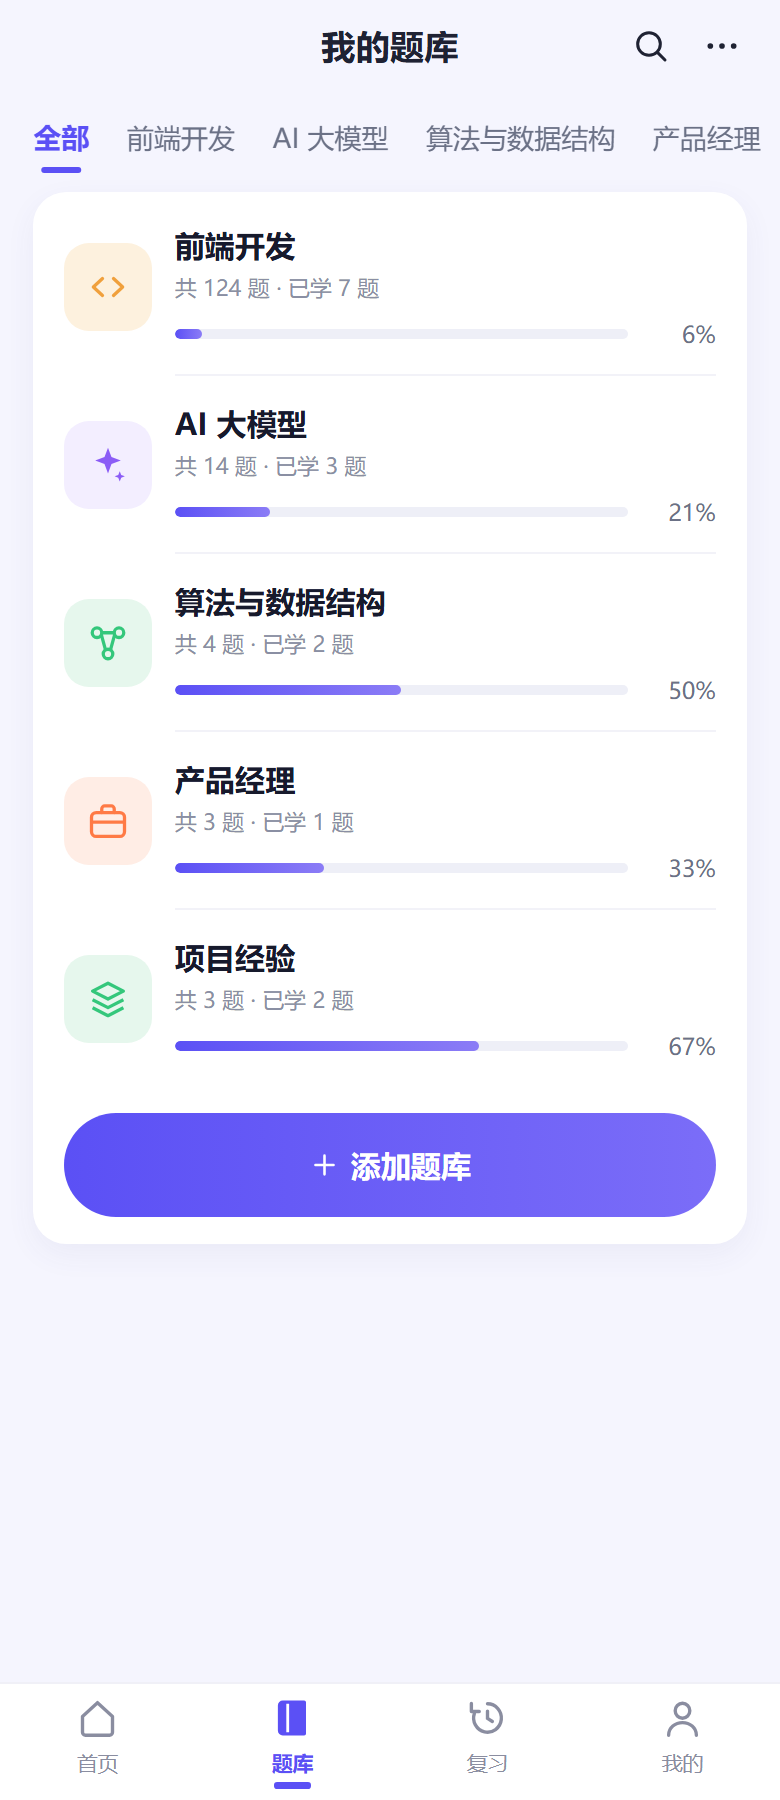
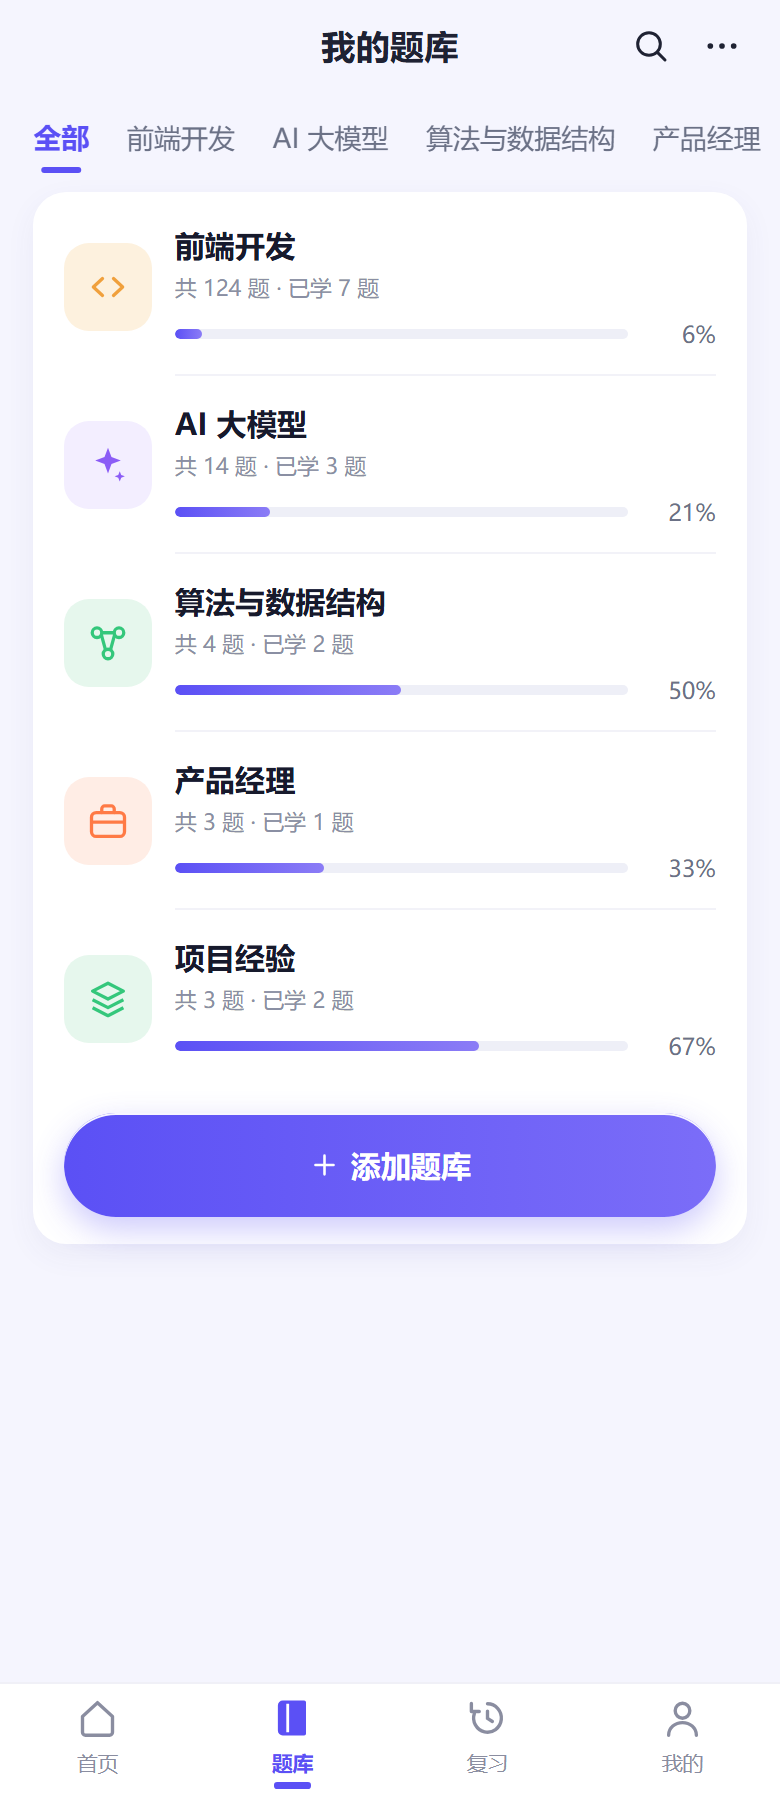
style(ui): 全站按钮换柔光玻璃质感
配方三要素（global.scss 集中定义 --glass-* / --glow-primary 令牌）：
- 半透明白渐变 + backdrop-filter blur/saturate —— 玻璃感来源；
  不支持 backdrop-filter 的老客户端退化为半透白叠浅底，视觉仍成立；
- inset 顶部 2rpx 白高光 —— 玻璃反光；
- 柔投影（次级用紫灰 10%，主 CTA 用品牌紫 30% 光晕）。

改动：
- global.scss 三个按钮类按配方重写；.tap:active 加 scale(0.98) 按压手感；
  blur 半径用 px（blur 内的 rpx 在 H5 端有转换不到的先例）；
- 页面局部按钮对齐同一配方：详情 foot-btn、编辑 sheet-btn 两组、
  复习计划 row-btn/ai-btn、学习 rate 打分卡、capture/ocr-review/settings
  三处 mini-btn、备份 act 卡、EmptyState、AnswerEditor AI 徽章；
- 主 CTA（渐变）不叠 backdrop-filter —— 渐变不透明，模糊不可见，只加
  反光内高光 + 柔光投影。

验证：type-check 0 错误；H5 + 小程序双端构建通过；13 屏截图重拍
（ui-8-screens 523576 -> 535569B），目检 library/study/detail/backup
四页：玻璃半透、顶部高光、柔投影均可见，文字清晰无错位。

Changed region(s): [[0.0923, 0.6533, 0.9231, 0.6844]]

diff --git a/src/styles/global.scss b/src/styles/global.scss
@@ -33,6 +33,18 @@ page {
   --radius-card: 32rpx;
   --radius-lg: 40rpx;
 
+  /* 柔光玻璃按钮配方（2026-11）：半透明白 + 顶部内高光 + 柔投影 + 背景模糊。
+     backdrop-filter 在新客户端（iOS WKWebView / Android Chromium 76+）都支持，
+     不支持时退化为「半透明白叠在浅底色上」，视觉仍成立 —— 所以不写 JS 探测。
+     页面局部按钮照抄这套变量，别自己拼 rgba，方便将来全局调。 */
+  --glass-bg: linear-gradient(180deg, rgba(255, 255, 255, 0.82), rgba(255, 255, 255, 0.5));
+  --glass-bg-tint: linear-gradient(180deg, rgba(255, 255, 255, 0.75), rgba(232, 233, 252, 0.55));
+  --glass-border: 1rpx solid rgba(255, 255, 255, 0.85);
+  --glass-sheen: inset 0 2rpx 0 rgba(255, 255, 255, 0.95);
+  --glass-shadow: 0 10rpx 26rpx rgba(70, 66, 140, 0.1);
+  --glass-blur: blur(9px) saturate(150%);
+  --glow-primary: 0 12rpx 32rpx rgba(91, 80, 245, 0.3);
+
   background-color: var(--bg-page);
   color: var(--text);
   font-family: -apple-system, BlinkMacSystemFont, 'PingFang SC', 'Helvetica Neue',
@@ -133,11 +145,14 @@ textarea {
   color: var(--text-sub);
 }
 
-/* ============ 按钮 ============ */
+/* ============ 按钮（柔光玻璃感） ============ */
+/* 主 CTA：渐变主体不变（可点击性靠它），加「顶部内高光 = 玻璃反光」和
+   紫色柔光投影。不叠 backdrop-filter —— 渐变本身不透明，模糊了也看不见。 */
 .btn-primary {
   height: 100rpx;
   border-radius: 50rpx;
   background-image: linear-gradient(90deg, var(--grad-from), var(--grad-to));
+  box-shadow: var(--glass-sheen), var(--glow-primary);
   color: #ffffff;
   font-size: 31rpx;
   font-weight: 700;
@@ -146,10 +161,16 @@ textarea {
   justify-content: center;
 }
 
+/* 次级动作：磨砂玻璃药丸。半透明白叠在页面浅紫底上，
+   blur 把底下颜色揉出一点点进按钮里 —— 这就是「玻璃感」的来源。 */
 .btn-soft {
   height: 96rpx;
   border-radius: 48rpx;
-  background-color: var(--primary-soft);
+  background-image: var(--glass-bg-tint);
+  border: var(--glass-border);
+  box-shadow: var(--glass-sheen), var(--glass-shadow);
+  backdrop-filter: var(--glass-blur);
+  -webkit-backdrop-filter: var(--glass-blur);
   color: var(--primary);
   font-size: 27rpx;
   font-weight: 700;
@@ -158,10 +179,15 @@ textarea {
   justify-content: center;
 }
 
+/* 弱动作：清玻璃描边款。 */
 .btn-ghost {
   height: 92rpx;
   border-radius: 46rpx;
-  border: 1px solid #e0e0ee;
+  background-image: var(--glass-bg);
+  border: var(--glass-border);
+  box-shadow: var(--glass-sheen), var(--glass-shadow);
+  backdrop-filter: var(--glass-blur);
+  -webkit-backdrop-filter: var(--glass-blur);
   color: var(--text-body);
   font-size: 27rpx;
   display: flex;
@@ -170,9 +196,11 @@ textarea {
 }
 
 .tap {
-  transition: opacity 0.15s ease;
+  transition: opacity 0.15s ease, transform 0.15s ease;
 }
 
+/* 按压缩到 0.98：玻璃被「按下去」的手感，配合 opacity 双保险。 */
 .tap:active {
-  opacity: 0.65;
+  opacity: 0.72;
+  transform: scale(0.98);
 }

diff --git a/src/pages/review/plan.vue b/src/pages/review/plan.vue
@@ -255,11 +255,16 @@ async function recalc(): Promise<void> {
   white-space: nowrap;
 }
 
+/* 行内小药丸：柔光玻璃（淡紫磨砂），配方见 global.scss。 */
 .row-btn {
   height: 60rpx;
   padding: 0 24rpx;
   border-radius: 30rpx;
-  background-color: #eaebfd;
+  background-image: var(--glass-bg-tint);
+  border: var(--glass-border);
+  box-shadow: var(--glass-sheen), var(--glass-shadow);
+  backdrop-filter: var(--glass-blur);
+  -webkit-backdrop-filter: var(--glass-blur);
   display: flex;
   align-items: center;
 }
@@ -358,12 +363,14 @@ async function recalc(): Promise<void> {
   background-color: #38bdf8;
 }
 
+/* AI 卡片主按钮：渐变主体 + 顶部内高光 + 柔光投影，配方同 .btn-primary。 */
 .ai-btn {
   margin-top: 28rpx;
   width: 232rpx;
   height: 84rpx;
   border-radius: 42rpx;
   background-image: linear-gradient(90deg, #5b50f5, #7b6df8);
+  box-shadow: var(--glass-sheen), var(--glow-primary);
   display: flex;
   align-items: center;
   justify-content: center;

diff --git a/src/pages/question/edit.vue b/src/pages/question/edit.vue
@@ -617,14 +617,21 @@ function remove(): void {
   justify-content: center;
 }
 
+/* 底部弹层的按钮组：ghost 换清玻璃、primary 加反光内高光 + 柔光投影，
+   配方同 global.scss（--glass-* / --glow-primary 变量在 page 上定义）。 */
 .sheet-btn--ghost {
-  background-color: #f2f2f8;
+  background-image: var(--glass-bg);
+  border: var(--glass-border);
+  box-shadow: var(--glass-sheen), var(--glass-shadow);
+  backdrop-filter: var(--glass-blur);
+  -webkit-backdrop-filter: var(--glass-blur);
   margin-right: 20rpx;
   flex: 0 0 200rpx;
 }
 
 .sheet-btn--primary {
   background-image: linear-gradient(90deg, #5b50f5, #7b6df8);
+  box-shadow: var(--glass-sheen), var(--glow-primary);
 }
 
 .sheet-btn-ghost-text {

diff --git a/src/pages/study/session.vue b/src/pages/study/session.vue
@@ -294,13 +294,18 @@ function back(): void {
   flex-direction: row;
 }
 
+/* 掌握度打分卡：白卡换成磨砂玻璃片（半透白 + 内高光 + 柔投影），
+   在白底 .qcard 里靠描边和阴影撑出层次。配方见 global.scss。 */
 .rate {
   flex: 1;
   height: 110rpx;
   margin-right: 16rpx;
   border-radius: 24rpx;
-  border: 2rpx solid #e3e5ee;
-  background-color: #ffffff;
+  border: 1rpx solid rgba(255, 255, 255, 0.85);
+  background-image: var(--glass-bg);
+  box-shadow: var(--glass-sheen), var(--glass-shadow);
+  backdrop-filter: var(--glass-blur);
+  -webkit-backdrop-filter: var(--glass-blur);
   display: flex;
   flex-direction: column;
   align-items: center;

diff --git a/src/pages/capture/index.vue b/src/pages/capture/index.vue
@@ -609,6 +609,7 @@ function start(): void {
   align-items: center;
 }
 
+/* 迷你玻璃药丸：贴在浅紫底上，半透白 + 模糊出玻璃感。配方见 global.scss。 */
 .mini-btn {
   display: flex;
   flex-direction: row;
@@ -616,7 +617,11 @@ function start(): void {
   height: 52rpx;
   padding: 0 20rpx;
   border-radius: 26rpx;
-  background-color: #ffffff;
+  background-image: var(--glass-bg);
+  border: var(--glass-border);
+  box-shadow: var(--glass-sheen), var(--glass-shadow);
+  backdrop-filter: var(--glass-blur);
+  -webkit-backdrop-filter: var(--glass-blur);
   margin-left: 14rpx;
 }
 

diff --git a/src/pages/profile/backup.vue b/src/pages/profile/backup.vue
@@ -265,12 +265,17 @@ async function doRestore(): Promise<void> {
   flex-direction: row;
 }
 
+/* 备份大操作卡：淡紫磨砂玻璃（半透 + 内高光 + 柔投影），配方见 global.scss。 */
 .act {
   flex: 1;
   height: 140rpx;
   margin-right: 20rpx;
   border-radius: 27rpx;
-  background-color: #eaebfd;
+  background-image: var(--glass-bg-tint);
+  border: var(--glass-border);
+  box-shadow: var(--glass-sheen), var(--glass-shadow);
+  backdrop-filter: var(--glass-blur);
+  -webkit-backdrop-filter: var(--glass-blur);
   display: flex;
   flex-direction: column;
   align-items: center;

diff --git a/src/components/EmptyState.vue b/src/components/EmptyState.vue
@@ -63,13 +63,18 @@ const emit = defineEmits<{ action: [] }>()
   padding-right: 60rpx;
 }
 
+/* 空态动作按钮：淡紫磨砂玻璃药丸，配方见 global.scss。 */
 .empty-action {
   margin-top: 32rpx;
   height: 72rpx;
   padding-left: 40rpx;
   padding-right: 40rpx;
   border-radius: 36rpx;
-  background-color: #eaebfd;
+  background-image: var(--glass-bg-tint);
+  border: var(--glass-border);
+  box-shadow: var(--glass-sheen), var(--glass-shadow);
+  backdrop-filter: var(--glass-blur);
+  -webkit-backdrop-filter: var(--glass-blur);
   display: flex;
   align-items: center;
 }

diff --git a/src/pages/capture/ocr-review.vue b/src/pages/capture/ocr-review.vue
@@ -372,6 +372,7 @@ function goBatch(): void {
   color: #a9aec2;
 }
 
+/* 迷你玻璃药丸（淡紫磨砂），配方见 global.scss。 */
 .mini-btn {
   display: flex;
   flex-direction: row;
@@ -379,7 +380,11 @@ function goBatch(): void {
   height: 64rpx;
   padding: 0 24rpx;
   border-radius: 32rpx;
-  background-color: #eaebfd;
+  background-image: var(--glass-bg-tint);
+  border: var(--glass-border);
+  box-shadow: var(--glass-sheen), var(--glass-shadow);
+  backdrop-filter: var(--glass-blur);
+  -webkit-backdrop-filter: var(--glass-blur);
 }
 
 .mini-btn-text {

diff --git a/src/components/AnswerEditor.vue b/src/components/AnswerEditor.vue
@@ -97,12 +97,17 @@ function onInput(e: Event): void {
   align-items: center;
 }
 
+/* AI 徽章小药丸：淡紫磨砂玻璃，配方见 global.scss。 */
 .ansed-ai {
   height: 46rpx;
   padding-left: 16rpx;
   padding-right: 18rpx;
   border-radius: 23rpx;
-  background-color: #eaebfd;
+  background-image: var(--glass-bg-tint);
+  border: var(--glass-border);
+  box-shadow: var(--glass-sheen), var(--glass-shadow);
+  backdrop-filter: var(--glass-blur);
+  -webkit-backdrop-filter: var(--glass-blur);
   display: flex;
   flex-direction: row;
   align-items: center;

diff --git a/src/pages/question/detail.vue b/src/pages/question/detail.vue
@@ -464,10 +464,15 @@ function confirmDelete(): void {
   margin: 44rpx 32rpx 40rpx;
 }
 
+/* 柔光玻璃药丸：配方同 global.scss 的 .btn-soft（变量也是全局定义的）。 */
 .foot-btn {
   height: 96rpx;
   border-radius: 48rpx;
-  background-color: #eaebfd;
+  background-image: var(--glass-bg-tint);
+  border: var(--glass-border);
+  box-shadow: var(--glass-sheen), var(--glass-shadow);
+  backdrop-filter: var(--glass-blur);
+  -webkit-backdrop-filter: var(--glass-blur);
   display: flex;
   flex-direction: row;
   align-items: center;

diff --git a/src/pages/profile/settings.vue b/src/pages/profile/settings.vue
@@ -272,11 +272,16 @@ function reseed(): void {
 </script>
 
 <style scoped>
+/* 迷你玻璃药丸：清玻璃款（灰字弱动作），配方见 global.scss。 */
 .mini-btn {
   height: 54rpx;
   padding: 0 22rpx;
   border-radius: 27rpx;
-  background-color: #f2f2f8;
+  background-image: var(--glass-bg);
+  border: var(--glass-border);
+  box-shadow: var(--glass-sheen), var(--glass-shadow);
+  backdrop-filter: var(--glass-blur);
+  -webkit-backdrop-filter: var(--glass-blur);
   display: flex;
   align-items: center;
   justify-content: center;
